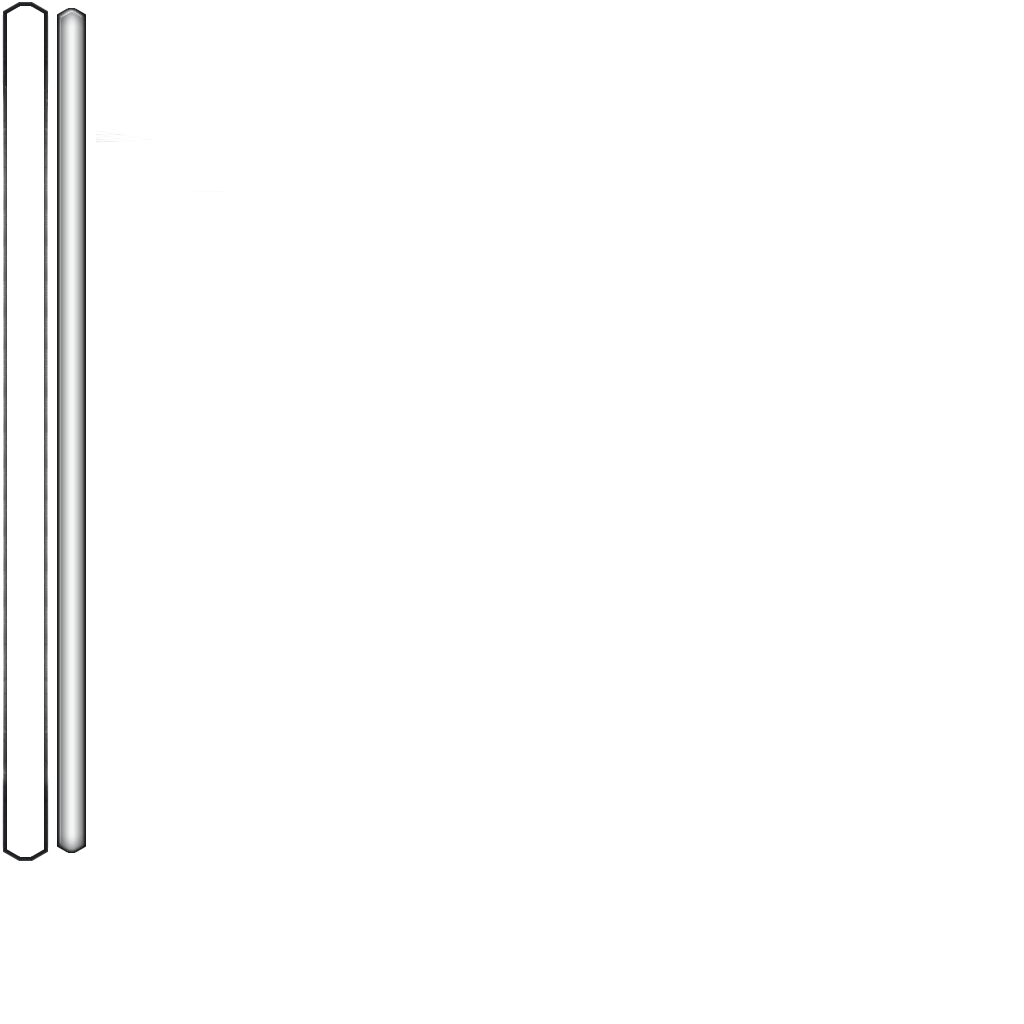
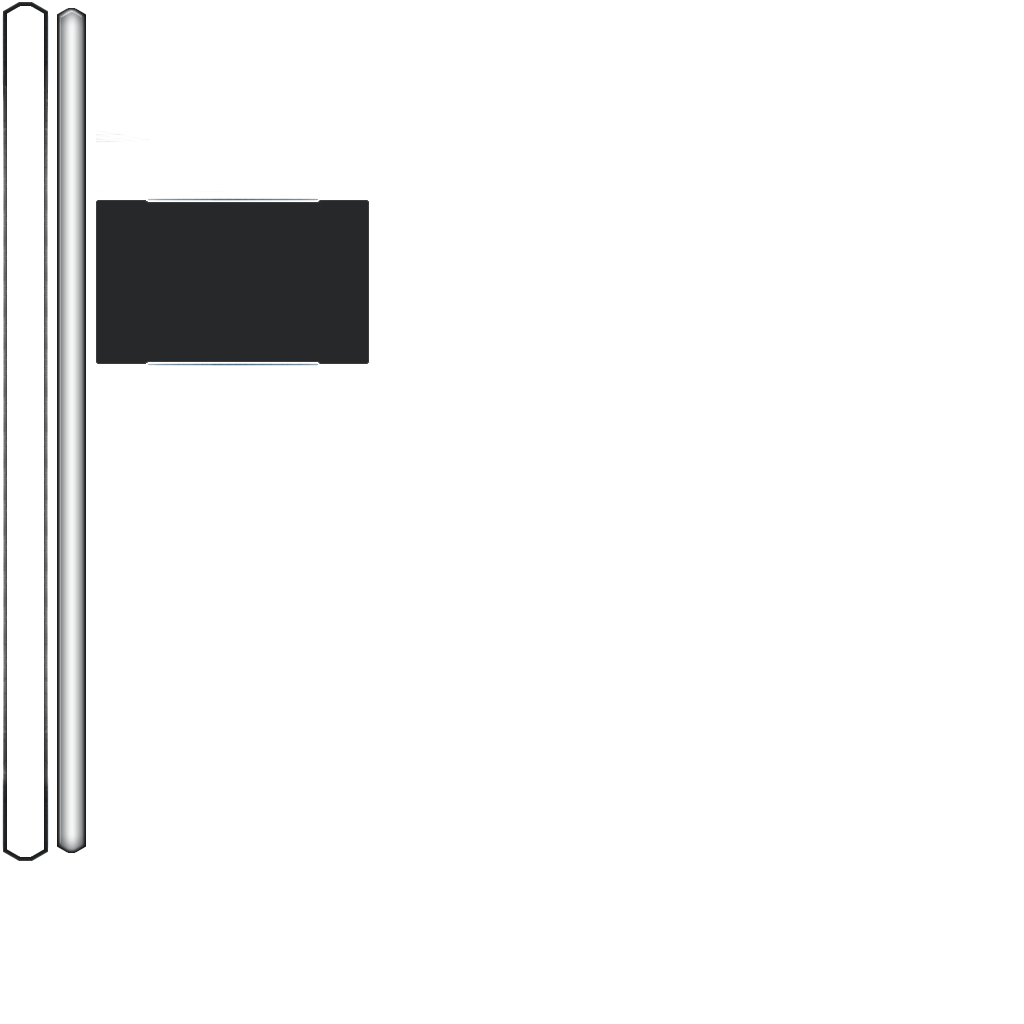
Nav terminal UI changes (WIP)

Changed region(s): [[0.0938, 0.1875, 0.375, 0.375]]

diff --git a/Barotrauma/BarotraumaClient/Source/Items/Components/Machines/Steering.cs b/Barotrauma/BarotraumaClient/Source/Items/Components/Machines/Steering.cs
@@ -42,13 +42,19 @@ namespace Barotrauma.Items.Components
 
         partial void InitProjSpecific()
         {
-            var paddedFrame = new GUIFrame(new RectTransform(new Vector2(0.95f, 0.9f), GuiFrame.RectTransform, Anchor.Center), style: null)
+            int viewSize = (int)Math.Min(GuiFrame.Rect.Width - 150, GuiFrame.Rect.Height * 0.9f);
+            var controlContainer = new GUIFrame(new RectTransform(new Vector2(0.3f, 0.3f), GuiFrame.RectTransform, Anchor.CenterLeft)
+                { MinSize = new Point(150, 0), AbsoluteOffset = new Point((int)(viewSize * 0.99f), 0) }, "SonarFrame");
+            var paddedControlContainer = new GUIFrame(new RectTransform(new Vector2(0.9f, 0.8f), controlContainer.RectTransform, Anchor.Center), style: null);
+
+            var statusContainer = new GUIFrame(new RectTransform(new Vector2(0.3f, 0.25f), GuiFrame.RectTransform, Anchor.BottomLeft)
+                { MinSize = new Point(150, 0), AbsoluteOffset = new Point((int)(viewSize * 0.8f), 0) }, "SonarFrame");
+            var paddedStatusContainer = new GUIFrame(new RectTransform(new Vector2(0.9f, 0.85f), statusContainer.RectTransform, Anchor.Center), style: null);
+            
+            var tickBoxContainer = new GUILayoutGroup(new RectTransform(new Vector2(0.15f, 1.0f), paddedControlContainer.RectTransform))
             {
-                CanBeFocused = false
-            };
-            var tickBoxContainer = new GUILayoutGroup(new RectTransform(new Vector2(0.15f, 1.0f), paddedFrame.RectTransform) { AbsoluteOffset = new Point(0, 30) })
-            {
-                AbsoluteSpacing = 5
+                RelativeSpacing = 0.03f,
+                Stretch = true
             };
 
             autopilotTickBox = new GUITickBox(new RectTransform(new Point(20, 20), tickBoxContainer.RectTransform),
@@ -154,15 +160,16 @@ namespace Barotrauma.Items.Components
                 }
             };
 
-            var textContainer = new GUILayoutGroup(new RectTransform(new Vector2(0.15f, 0.5f), paddedFrame.RectTransform, Anchor.BottomLeft), childAnchor: Anchor.BottomLeft)
+            var textContainer = new GUILayoutGroup(new RectTransform(Vector2.One, paddedStatusContainer.RectTransform))
             {
-                AbsoluteSpacing = 5
+                RelativeSpacing = 0.03f,
+                Stretch = true
             };
 
             string steeringVelX = TextManager.Get("SteeringVelocityX");
             string steeringVelY = TextManager.Get("SteeringVelocityY");
             string steeringDepth = TextManager.Get("SteeringDepth");
-            new GUITextBlock(new RectTransform(new Point(100, 15), textContainer.RectTransform), "")
+            new GUITextBlock(new RectTransform(new Vector2(1.0f, 0.25f), textContainer.RectTransform), "")
             {
                 TextGetter = () =>
                 {
@@ -171,7 +178,7 @@ namespace Barotrauma.Items.Components
                     return steeringVelY.Replace("[kph]", ((int)-realWorldVel).ToString());
                 }
             };
-            new GUITextBlock(new RectTransform(new Point(100, 15), textContainer.RectTransform), "")
+            new GUITextBlock(new RectTransform(new Vector2(1.0f, 0.25f), textContainer.RectTransform), "")
             {
                 TextGetter = () =>
                 {
@@ -180,7 +187,7 @@ namespace Barotrauma.Items.Components
                     return steeringVelX.Replace("[kph]", ((int)realWorldVel).ToString());
                 }
             };
-            new GUITextBlock(new RectTransform(new Point(100, 15), textContainer.RectTransform), "")
+            new GUITextBlock(new RectTransform(new Vector2(1.0f, 0.25f), textContainer.RectTransform), "")
             {
                 TextGetter = () =>
                 {
@@ -189,14 +196,25 @@ namespace Barotrauma.Items.Components
                     return steeringDepth.Replace("[m]", ((int)realWorldDepth).ToString());
                 }
             };
-            pressureWarningText = new GUITextBlock(new RectTransform(new Point(100, 15), textContainer.RectTransform), TextManager.Get("SteeringDepthWarning"), Color.Red)
+            pressureWarningText = new GUITextBlock(new RectTransform(new Vector2(1.0f, 0.25f), textContainer.RectTransform), TextManager.Get("SteeringDepthWarning"), Color.Red)
             {
                 Visible = false
             };
 
-            int viewSize = Math.Min(GuiFrame.Rect.Width - 150, GuiFrame.Rect.Height);
-            steerArea = new GUICustomComponent(new RectTransform(new Point(viewSize), GuiFrame.RectTransform, Anchor.CenterRight) { AbsoluteOffset = new Point(10, 0) },
+            steerArea = new GUICustomComponent(new RectTransform(new Point(viewSize), GuiFrame.RectTransform, Anchor.CenterLeft),
                 (spriteBatch, guiCustomComponent) => { DrawHUD(spriteBatch, guiCustomComponent.Rect); }, null);
+
+            textContainer.Recalculate();
+
+            foreach (GUITextBlock text in textContainer.Children)
+            {
+                float circleRight = 
+                    steerArea.Center.X + 
+                    (float)Math.Abs(Math.Sin((text.Rect.Center.Y - steerArea.Rect.Center.Y) / (viewSize * 0.5f) * MathHelper.Pi)) * viewSize * 0.5f;
+
+                text.RectTransform.ScreenSpaceOffset += new Point((int)Math.Max(circleRight - text.Rect.X, 0.0f), 0);
+            }
+            
         }
 
         public void DrawHUD(SpriteBatch spriteBatch, Rectangle rect)

diff --git a/Barotrauma/BarotraumaClient/Source/Items/Components/Machines/Sonar.cs b/Barotrauma/BarotraumaClient/Source/Items/Components/Machines/Sonar.cs
@@ -45,15 +45,20 @@ namespace Barotrauma.Items.Components
 
         partial void InitProjSpecific(XElement element)
         {
-            displayBorderSize = element.GetAttributeFloat("displaybordersize", 0.0f);
-
             sonarBlips = new List<SonarBlip>();
-            var paddedFrame = new GUIFrame(new RectTransform(new Vector2(0.95f, 0.9f), GuiFrame.RectTransform, Anchor.Center), style: null)
-            {
-                CanBeFocused = false
-            };
+            
+            int viewSize = (int)Math.Min(GuiFrame.Rect.Width - 150, GuiFrame.Rect.Height * 0.9f);
+            new GUICustomComponent(new RectTransform(new Point(viewSize), GuiFrame.RectTransform, Anchor.CenterLeft),
+                (spriteBatch, guiCustomComponent) => { DrawSonar(spriteBatch, guiCustomComponent.Rect); }, null);
 
-            isActiveTickBox = new GUITickBox(new RectTransform(new Point(20, 20), paddedFrame.RectTransform), TextManager.Get("SonarActive"))
+            var controlContainer = new GUIFrame(new RectTransform(new Vector2(0.3f, 0.3f), GuiFrame.RectTransform, Anchor.TopLeft)
+                { MinSize = new Point(150, 0), AbsoluteOffset = new Point((int)(viewSize * 0.85f), 0) }, "SonarFrame");
+
+            controlContainer.RectTransform.SetAsFirstChild();
+
+            var paddedControlContainer = new GUIFrame(new RectTransform(new Vector2(0.9f, 0.8f), controlContainer.RectTransform, Anchor.Center), style: null);
+
+            isActiveTickBox = new GUITickBox(new RectTransform(new Point(20, 20), paddedControlContainer.RectTransform), TextManager.Get("SonarActive"))
             {
                 ToolTip = TextManager.Get("SonarTipActive"),
                 OnSelected = (GUITickBox box) =>
@@ -72,10 +77,6 @@ namespace Barotrauma.Items.Components
                     return true;
                 }
             };
-
-            int viewSize = Math.Min(GuiFrame.Rect.Width - 150, GuiFrame.Rect.Height);
-            new GUICustomComponent(new RectTransform(new Point(viewSize), GuiFrame.RectTransform, Anchor.CenterRight) { AbsoluteOffset = new Point(10, 0) },
-                (spriteBatch, guiCustomComponent) => { DrawSonar(spriteBatch, guiCustomComponent.Rect); }, null);
 
             GuiFrame.CanBeFocused = false;
         }
@@ -186,6 +187,11 @@ namespace Barotrauma.Items.Components
                center = new Vector2(rect.X + rect.Width * 0.5f, rect.Center.Y);
             displayRadius = (rect.Width / 2.0f) * (1.0f - displayBorderSize);
             displayScale = displayRadius / range;
+
+            if (screenBackground != null)
+            {
+                screenBackground.Draw(spriteBatch, center, 0.0f, rect.Width / screenBackground.size.X);
+            }
 
             if (IsActive)
             {

diff --git a/Barotrauma/BarotraumaShared/Source/Items/Components/Machines/Sonar.cs b/Barotrauma/BarotraumaShared/Source/Items/Components/Machines/Sonar.cs
@@ -27,7 +27,7 @@ namespace Barotrauma.Items.Components
 
         private float pingState;
 
-        private readonly Sprite pingCircle, screenOverlay;
+        private readonly Sprite pingCircle, screenOverlay, screenBackground;
 
         private readonly Sprite sonarBlip;
 
@@ -93,6 +93,9 @@ namespace Barotrauma.Items.Components
                     case "screenoverlay":
                         screenOverlay = new Sprite(subElement);
                         break;
+                    case "screenbackground":
+                        screenBackground = new Sprite(subElement);
+                        break;
                     case "blip":
                         sonarBlip = new Sprite(subElement);
                         break;
@@ -149,8 +152,10 @@ namespace Barotrauma.Items.Components
 
         protected override void RemoveComponentSpecific()
         {
-            if (pingCircle != null) pingCircle.Remove();
-            if (screenOverlay != null) screenOverlay.Remove();
+            sonarBlip?.Remove();
+            pingCircle?.Remove();
+            screenOverlay?.Remove();
+            screenBackground?.Remove();
         }
 
         public override bool AIOperate(float deltaTime, Character character, AIObjectiveOperateItem objective)

diff --git a/Barotrauma/BarotraumaClient/Source/Items/Components/ItemComponent.cs b/Barotrauma/BarotraumaClient/Source/Items/Components/ItemComponent.cs
@@ -242,7 +242,8 @@ namespace Barotrauma.Items.Components
 
                     Color? color = null;
                     if (subElement.Attribute("color") != null) color = subElement.GetAttributeColor("color", Color.White);
-                    string style = subElement.GetAttributeString("style", "");
+                    string style = subElement.Attribute("style") == null ?
+                        null : subElement.GetAttributeString("style", "");
 
                     guiFrame = new GUIFrame(RectTransform.Load(subElement, GUI.Canvas), style, color);
                     break;
